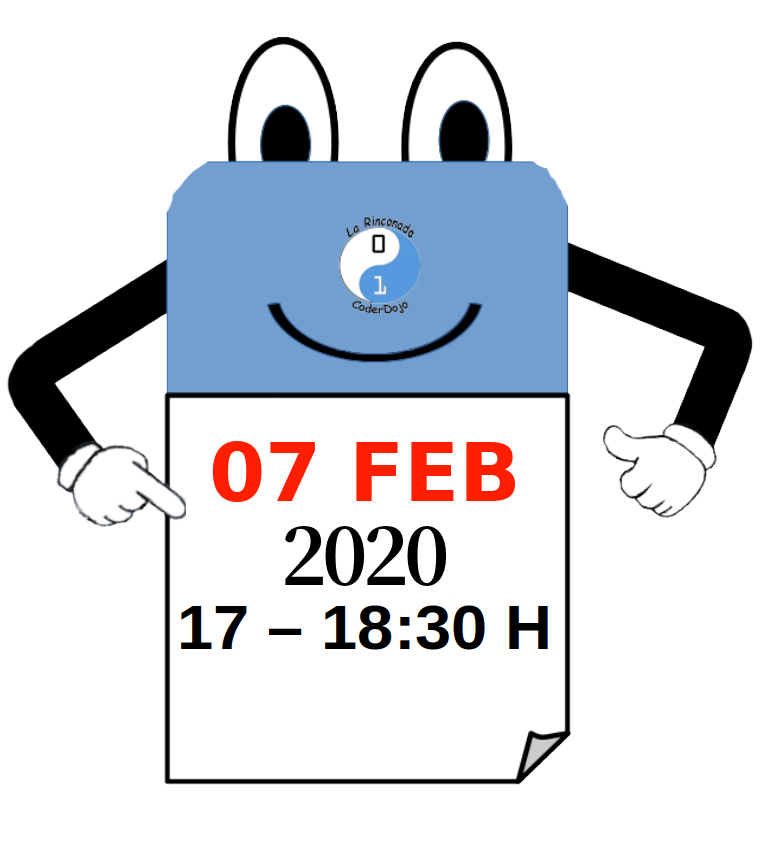
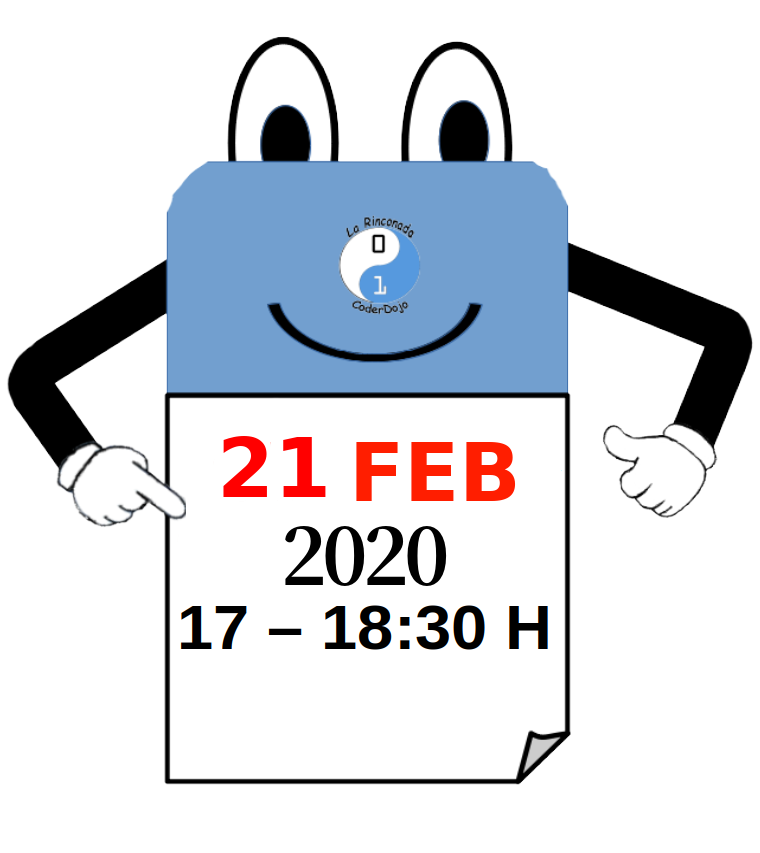
0902202

Changed region(s): [[0.2724, 0.4877, 0.4237, 0.6096]]

diff --git a/reservar.md b/reservar.md
@@ -4,7 +4,7 @@ title: Reserva tu plaza para asistir a CoderDojo
 permalink: /reservar/
 ---
 
-### Nuestro próximo evento será el 07 de febrero de 2020 de 17:00 a 18:30 horas.
+### Nuestro próximo evento será el 
 
 {% include calendario.html %}
   
